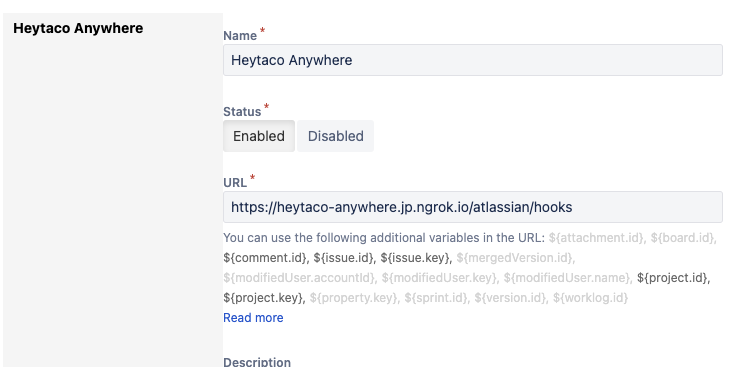
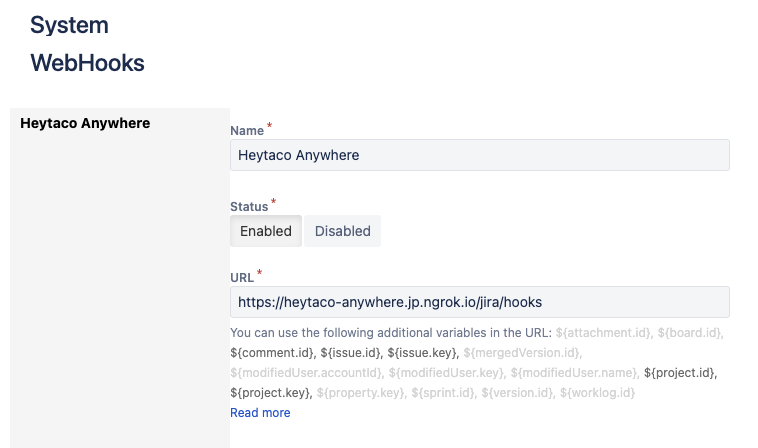
fix: fix configuration of Jira.

diff --git a/content/docs/configuration/index.md b/content/docs/configuration/index.md
@@ -11,7 +11,7 @@ Heytaco Anywhere is connected by OAuth. It is necessary to configure Slack or Mi
 * [Slack](#slack)
 * [Microsoft Teams](#microsoft-teams)
 * [Github](#github)
-* [Atlassian](#atlassian)
+* [Jira](#jira)
 
 
 ## Slack
@@ -52,8 +52,6 @@ Then install the App into the workspace by clicking **Install to Workspace**. ([
 
 ## Github 
 
-Github provides OAuth App & Webhook. It makes Heytaco Anywhere reads Github users and listen to events.
-
 ### Step 1: Create App
 
 In the organization, move to **Settings > Developer Settings > OAuth settings** to configure OAuth. 
@@ -77,25 +75,23 @@ figure) Create Github Webhook
 ![github-create-webhook](/images/github-create-webhook.png)
 
 
-## Atlassian
-
-Github provides OAuth App & Webhook. It makes Heytaco Anywhere reads Github user and listen to events.
+## Jira
 
 ### Step 1: Create App
 
-To connect with Atlassian, you have to Atlassian App and make it public. Let's move to the [Atlassian Developer Console](https://developer.atlassian.com/console/myapps/) and create a new App. The App requires configuring the Callback URL and Permissions; The callback URL has to be `https://YOUR_HOST/atlassian/signin`; The `User identity API` has to be added. (reference [JIRA OAuth](https://developer.atlassian.com/cloud/jira/platform/oauth-2-3lo-apps/))
+To connect with Jira, you have to create App in Atlassian Developer and make it public. Let's move to the [Atlassian Developer Console](https://developer.atlassian.com/console/myapps/) and create a new App. For OAuth, you have to configure the Callback URL and Permissions; The Callback URL has to be `https://YOUR_HOST/jira/signin` and it can be configured in the *Authorization* section; Permissions requires `View user profiles` and `View Jira Issue data` of Jira, it can be configured in the *Permissions* section. ([JIRA oAuth](https://developer.atlassian.com/cloud/jira/platform/oauth-2-3lo-apps/))
 
-To make your teammates access the App for authentication. You have to the App public by requesting to [Developer Service Desk](https://ecosystem.atlassian.net/servicedesk/customer/portal/14).
+To make your teammates access the App for authentication. You can make the App public by requesting to [Developer Service Desk](https://ecosystem.atlassian.net/servicedesk/customer/portal/14).
 
-figure) Atlassian Authorization
+figure) App Authorization
 
 ![atlassian-app-authorization](/images/atlassian-app-authorization.png)
 
-figure) Atlassian Permissions
+figure) App Permissions
 
 ![atlassian-app-permissions](/images/atlassian-app-permissions.png)
 
-figure) Atlassian Distribution
+figure) App Distribution
 
 ![atlassian-app-distribution](/images/atlassian-app-distribution.png)
 
@@ -103,7 +99,7 @@ figure) Atlassian Distribution
 
 In your JIRA workspace, move to **Settings > System > WebHooks**.
 
-After click Create a Webhook button, you have to fill out the URL with `https://YOUR_HOST/atlassian/hooks`, and click the Comment `created` event enabled.
+After click Create a Webhook button, you have to fill out the URL with `https://YOUR_HOST/jira/hooks`, and click the Comment `created` event enabled.
 
 ![atlassian-app-webhook](/images/atlassian-app-webhook.png)
 
